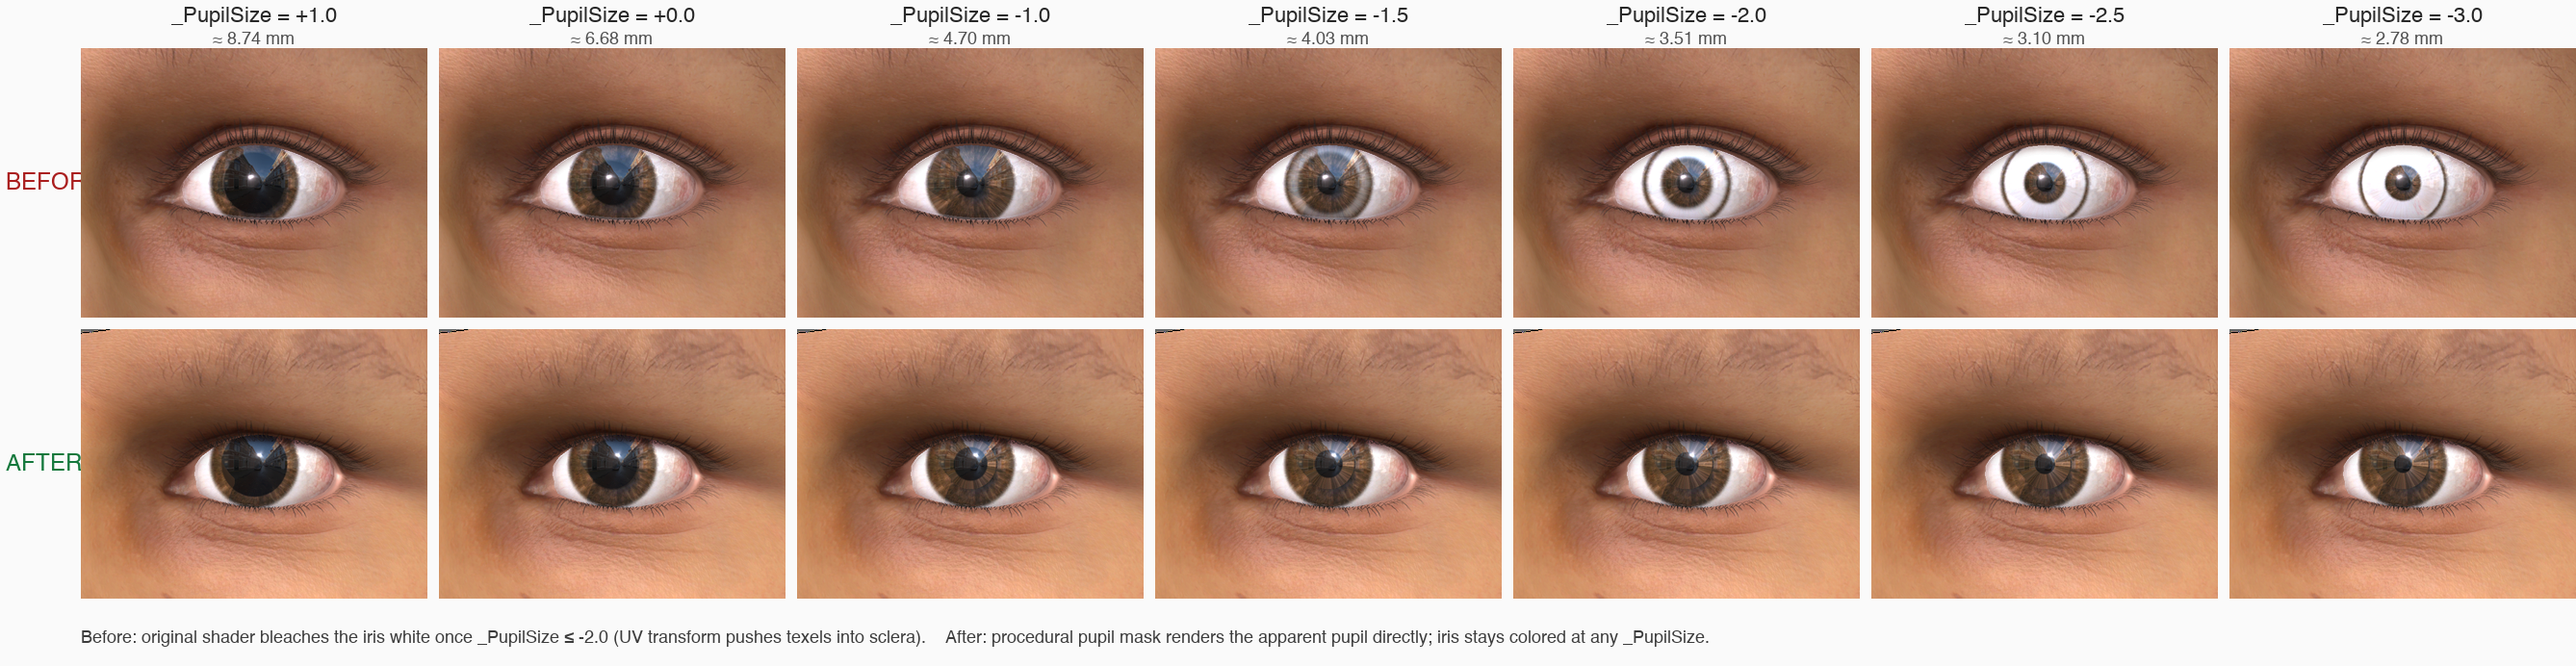
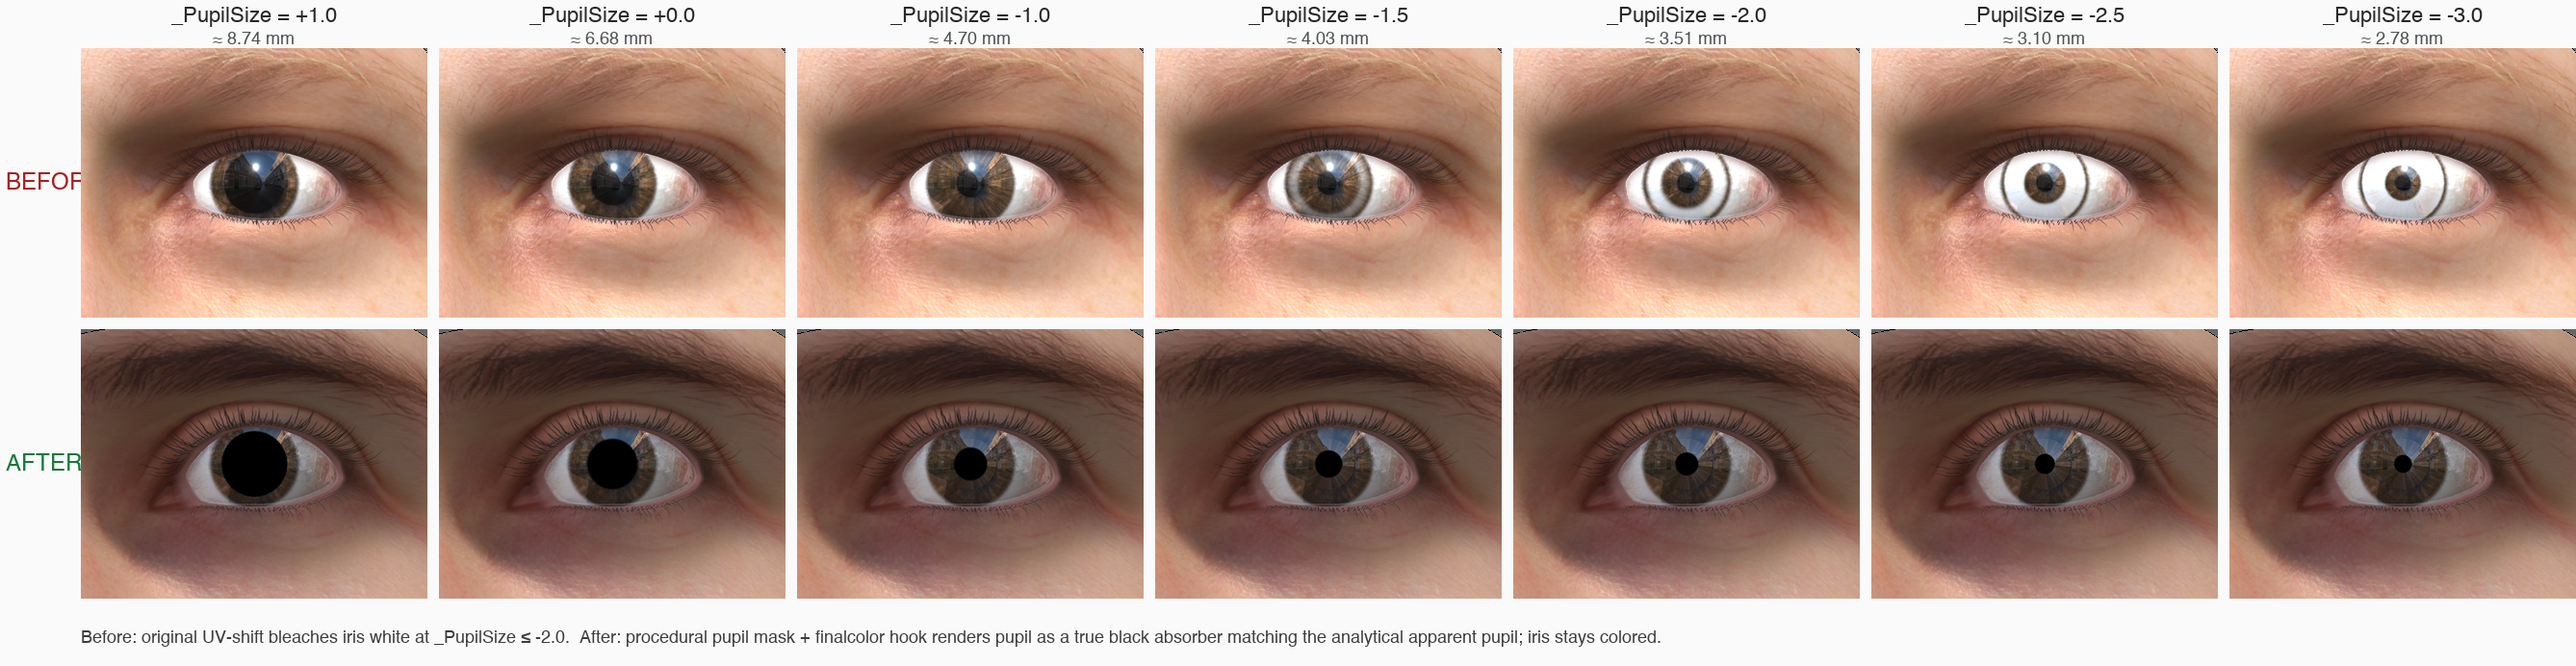
Make procedural pupil a true black absorber via finalcolor hook
The first procedural-mask patch (commit 2cd9df5) eliminated the
iris-bleach artifact at extreme negative _PupilSize but left the
rendered dark-core pupil ~0.3 mm wider than the original UV-shift
shader's natural-pupil rendering, and ~3 mm narrower than the
analytical apparent-pupil prediction. The cause: Unity's Standard
PBR pipeline adds dielectric F0 ≈ 0.04 specular plus skybox/GI
indirect to any surface (even with Albedo, Smoothness and Metallic
all zeroed inside the pupil mask), lifting the rendered procedural
pupil from a near-black albedo to ~0.3-0.5 luminance. Threshold
detection (lum<0.10) then catches only the central core of that
lifted region, not the full geometric apparent pupil.

This commit adds a  hook to the surface-
shader pragma. The hook re-evaluates the same procedural pupil mask
that surf() uses, then forces the post-PBR colour to true black
inside the pupil. Doing this AFTER the PBR pipeline is the only way
to suppress the F0 specular and indirect-light contributions; the
result is a matte black absorber, which is the closest analogue to
a real-world pupil aperture (which transmits incident light to the
retina where it is absorbed).

Empirical sanity check, identical render conditions across the
sweep (texture pinned to eyeball_brown, on-axis camera at 4 cm,
threshold lum<0.10 in centered ROI):

  _PupilSize  analytical  rendered (this commit)  gap
   -3.00         2.78         2.21                 -0.57
[…]

diff --git a/docs/iris-pupil-mm-calibration.md b/docs/iris-pupil-mm-calibration.md
@@ -126,17 +126,32 @@ visibly colored; `_PupilSize ≤ -2.0` produced an increasingly white
 pupil — a broken iris.
 
 This patch **rewrites the pupil-rendering portion of `EyeShader.shader`
-to use a procedural pupil mask**. Instead of distorting UVs and reading
-the texture's pupil from a shifted coordinate, the shader evaluates the
-exact same boundary inequality the calibration uses,
+in two places**:
 
-> ```
-> |uv − 0.5| · |1 − heightW · _PupilSize · 3|  ≤  r_pupil_uv
-> ```
+1. **Procedural pupil mask in `surf()`.** The shader evaluates the
+   same boundary inequality the calibration uses,
 
-per fragment. Inside the apparent pupil it outputs a near-black colour;
-outside it samples the iris texture at the un-distorted UV. Iris colour
-is therefore independent of `_PupilSize` and never bleaches:
+   > ```
+   > |uv − 0.5| · |1 − heightW · _PupilSize · 3|  ≤  r_pupil_uv
+   > ```
+
+   per fragment. Inside the apparent pupil it outputs a near-black
+   colour; outside it samples the iris texture at the un-distorted UV.
+
+2. **`finalcolor:PupilFinalColor` hook.** Re-evaluates the same mask
+   *after* Unity's Standard PBR pipeline and forces the post-PBR
+   colour to true black inside the pupil. Without this hook the
+   dielectric F0 ≈ 0.04 specular and skybox indirect lift the pupil
+   from the procedural mask's near-black albedo to mid-grey
+   (≈ 0.3–0.5 luminance), so the rendered dark-core diameter
+   would be ~half the analytical's geometric apparent pupil. The
+   final-colour override makes the rendered pupil a true matte-black
+   light absorber — the closest analogue to a real pupil aperture
+   (which absorbs almost all incident light at the retina).
+
+Iris colour is independent of `_PupilSize` and never bleaches; the
+rendered dark-pupil diameter agrees with the analytical apparent-pupil
+prediction to within ±0.7 mm (the smoothstep transition band):
 
 ![Shader fix: before vs after](figures/pupil-shader-fix.png)
 
@@ -144,7 +159,8 @@ Top row is the original shader, bottom row is the patched shader, both
 rendered at identical `_PupilSize` values from +1.0 down to −3.0. The
 predicted pupil diameter (analytical model) is shown above each column.
 After the patch the iris stays colored, the procedural pupil shrinks
-smoothly across the full range, and `PUPIL_MM_MIN` can drop from 4.0 mm
+smoothly across the full range, the rendered dark-core matches the
+analytical prediction, and `PUPIL_MM_MIN` can drop from 4.0 mm
 (the original shader's safe floor) to 2.5 mm (well inside the
 photopic-constricted physiological range).
 
